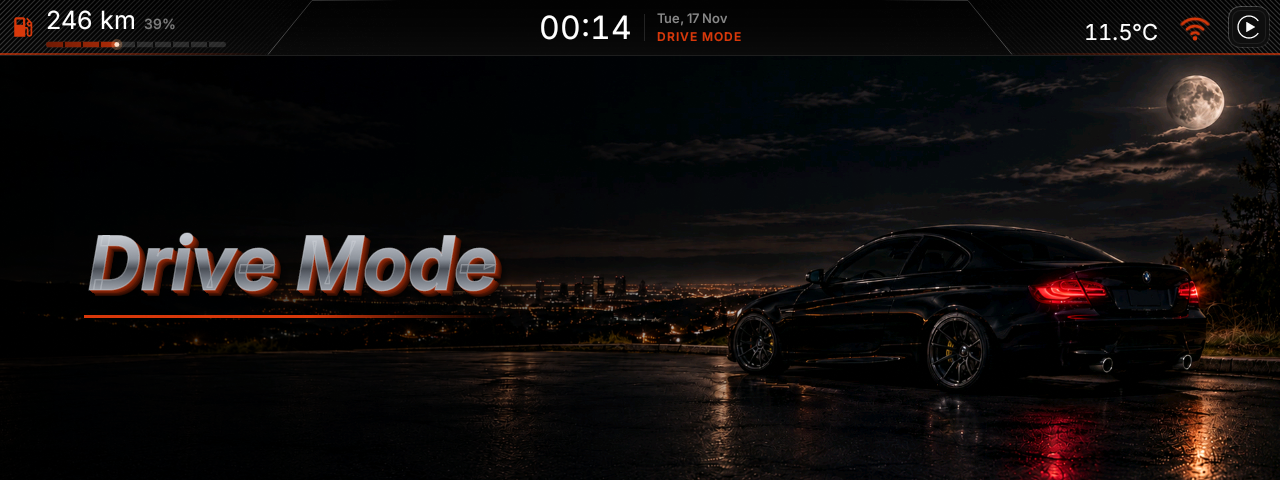
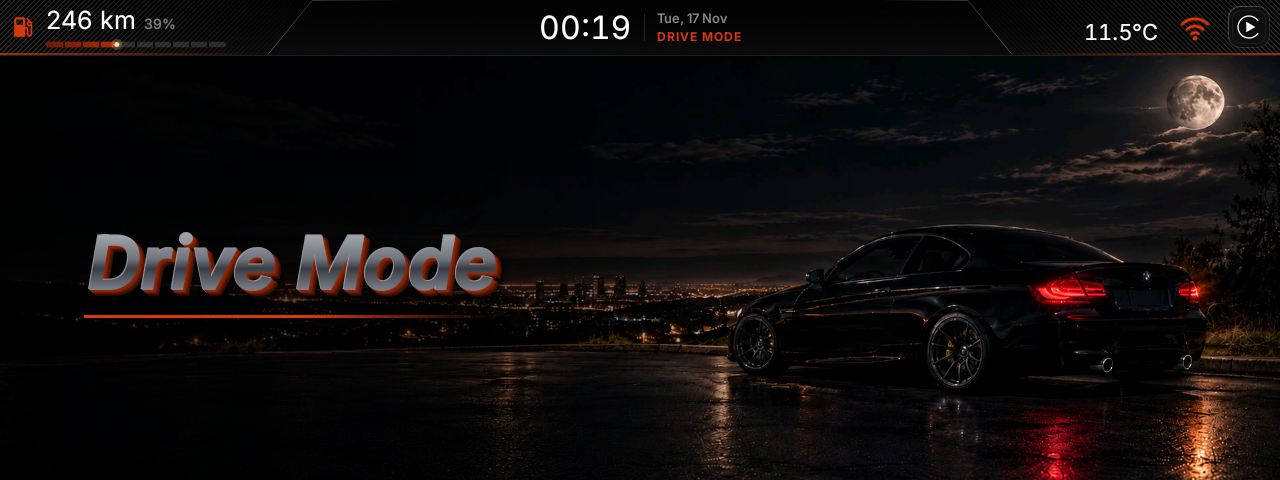
Mode scenes: darker gray title without the stroke outline (it showed lines inside the letters), darker wheels in the smoke photo

Changed region(s): [[0.0625, 0.4688, 0.4062, 0.625], [0.4688, 0.0312, 0.5, 0.0938]]

diff --git a/app/src/main/java/ro/e92/launcher/ui/screens/ModeScreen.kt b/app/src/main/java/ro/e92/launcher/ui/screens/ModeScreen.kt
@@ -132,11 +132,7 @@ class ModeBannerView(
     }
     private val titlePaint = titleStyle()
     private val depthPaint = titleStyle()
-    private val rimPaint = titleStyle().apply {
-        style = Paint.Style.STROKE
-        strokeJoin = Paint.Join.ROUND
-        color = Color.rgb(214, 218, 224)
-    }
+    private val rimPaint = titleStyle().apply { color = Color.rgb(190, 195, 203) }
     private var faceFor = 0f
 
     /** Rândul mic, ca „BMW iDRIVE" din salut: semibold, litere rărite, portocaliu. */
@@ -205,7 +201,7 @@ class ModeBannerView(
         titlePaint.textSize = big
         depthPaint.textSize = big
         rimPaint.textSize = big
-        rimPaint.strokeWidth = h * RIM_WIDTH
+        val rim = h * RIM_WIDTH
         subPaint.textSize = h * SUB_SIZE
         val x = w * TEXT_LEFT
         val titleW = titlePaint.measureText(title)
@@ -255,16 +251,18 @@ class ModeBannerView(
                     0f, ty - big * 0.74f, 0f, ty,
                     // Hyper gray: gri metalic închis, ca jantele din fotografie.
                     intArrayOf(
-                        Color.rgb(196, 200, 207), Color.rgb(142, 148, 157), Color.rgb(74, 79, 87),
-                        Color.rgb(112, 118, 127), Color.rgb(158, 163, 171)
+                        Color.rgb(158, 162, 169), Color.rgb(112, 117, 125), Color.rgb(56, 60, 67),
+                        Color.rgb(86, 91, 99), Color.rgb(124, 129, 137)
                     ),
                     floatArrayOf(0f, 0.42f, 0.6f, 0.78f, 1f), Shader.TileMode.CLAMP
                 )
             }
+            // Rama: o copie deschisă cu puțin mai sus-stânga, sub față. Un contur desenat cu
+            // STROKE arăta liniile dintre bucățile literelor, în interiorul lor.
+            rimPaint.alpha = (alpha * 0.75f).toInt()
+            canvas.drawText(title, x - rim, ty - rim, rimPaint)
             titlePaint.alpha = alpha
             canvas.drawText(title, x, ty, titlePaint)
-            rimPaint.alpha = (alpha * 0.38f).toInt()
-            canvas.drawText(title, x, ty, rimPaint)
         }
         if (subText != null && subIn > 0f) {
             subPaint.alpha = (255 * subIn * all).toInt()
@@ -335,7 +333,7 @@ class ModeBannerView(
         private const val TITLE_SKEW = -0.17f
         private const val DEPTH = 0.014f
         private const val DEPTH_STEPS = 7
-        private const val RIM_WIDTH = 0.0028f
+        private const val RIM_WIDTH = 0.0026f
         private const val SUB_GAP = 0.045f
         private const val LINE_PX = 3f
     }
